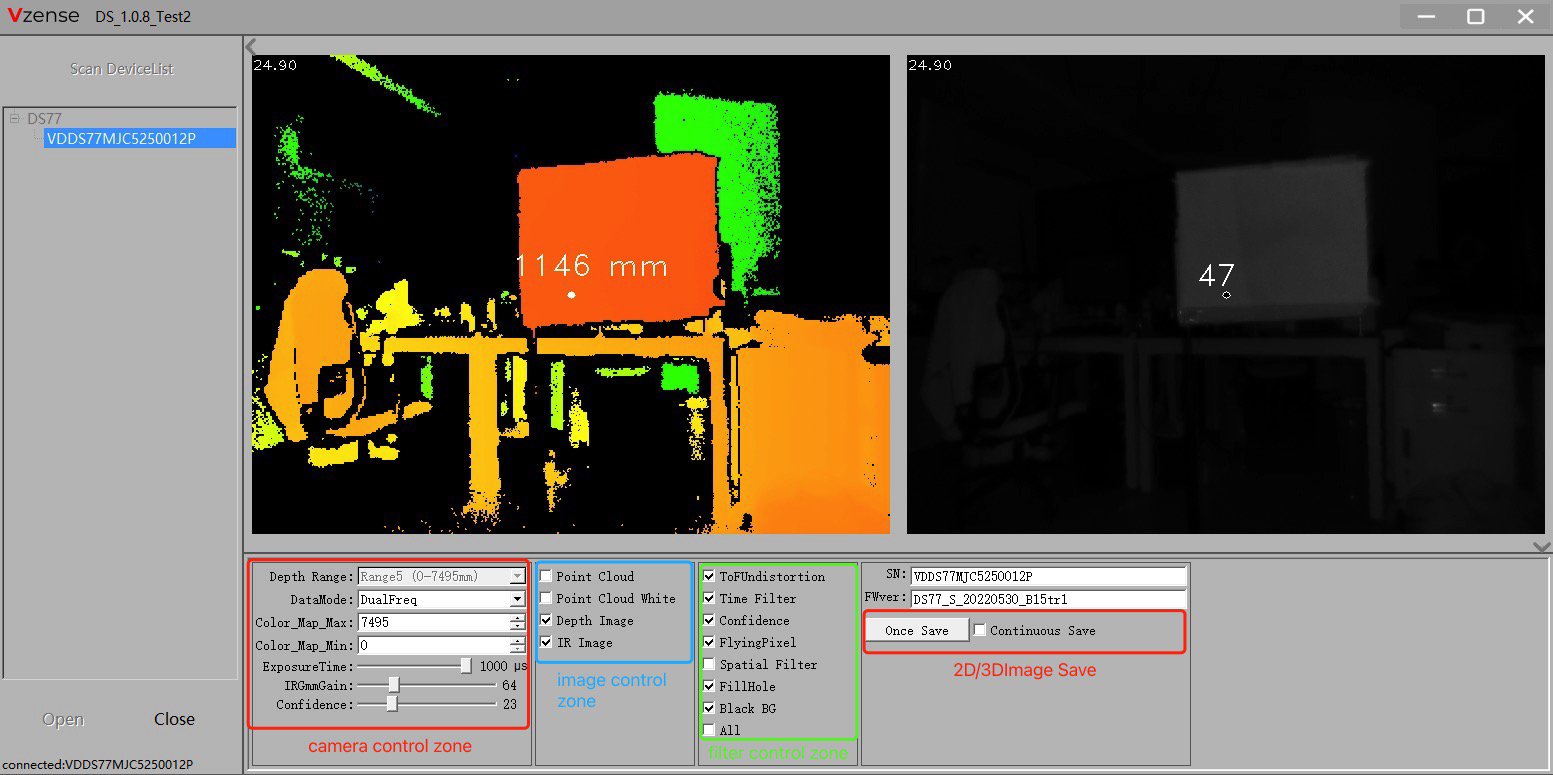
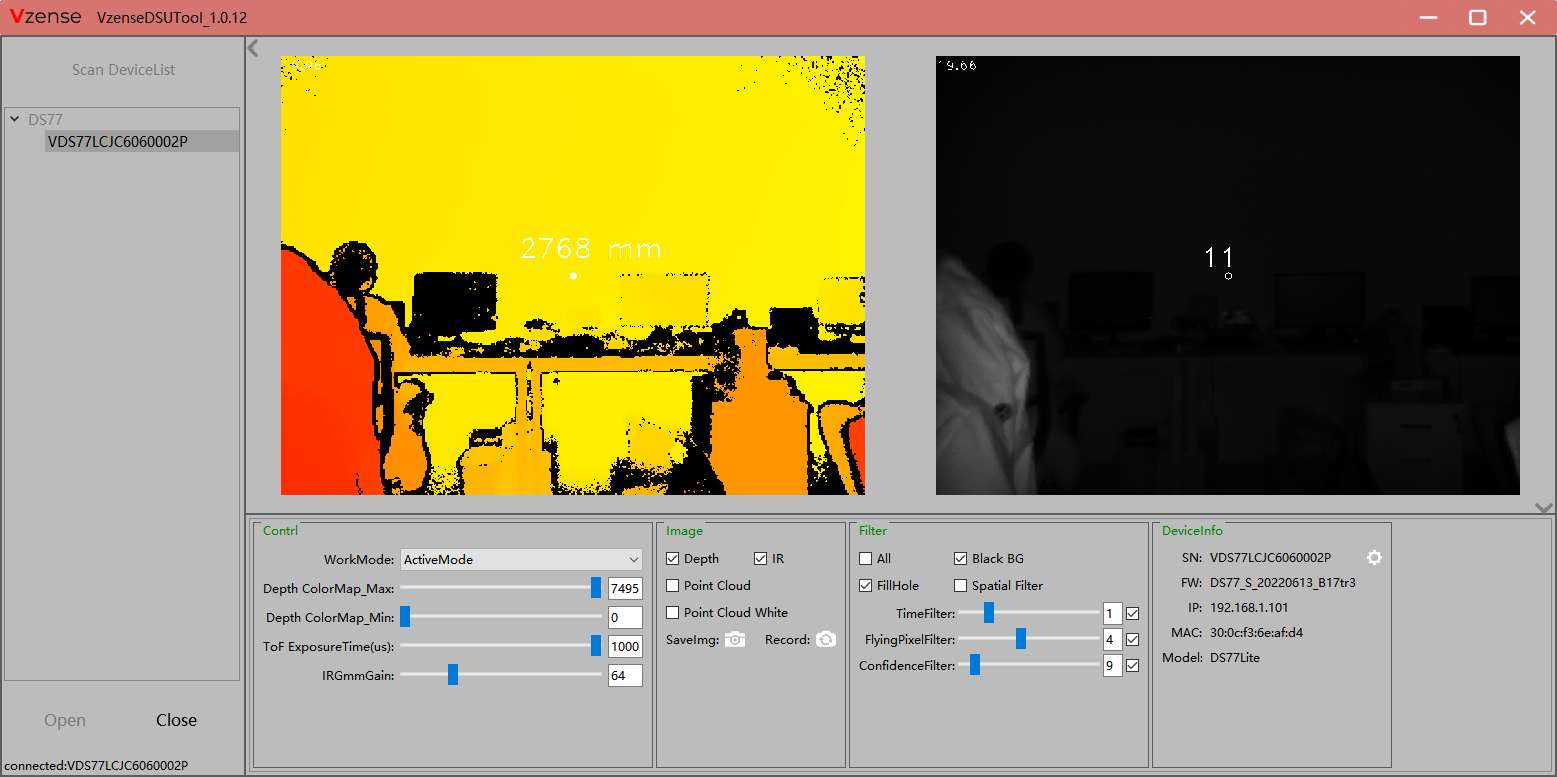
change version number to 1.1.0

diff --git a/README.md b/README.md
@@ -16,13 +16,6 @@ The Tools repo have three parts:
 
   Display the 2D or 3D image of DS77 
 
-- VzenseDSUpgradeTool
-
-  Used for upgrade DS77 camera firmware 
-
-- VzenseDSConfigTool
-
-  Configurate the DS77 camera default parameter
 
 ------
 
@@ -84,47 +77,22 @@ Follow the below steps to use DSUTool:
 
 **Camera control Zone**
 
-Depth Range: Display the detect range
-
-DataMode: the DualFreq is the default mode, use 120M/20M.
+WorkMode: switch the camera working mode: ActiveMode/HardwareTriggerMode/SoftwareTriggerMode
 
 Color_Map_Max/Min:  change the color map in depth image show
 
-ExposureTime: adjust the exposure time, the maxiume is 1000us
+ToF ExposureTime: adjust the exposure time, the maxiume is 1000us
 
 IRGmmGain: adjust the digital gamma gain of IR image, the value range is 0-255
-
-Confidence: adjust the effect of confidence filter 
 
 **Image control Zone**
 
 Enable/Disable the Image window
 
+SaveImg: save the current image of showing once
+
+Record: Continuous save the showing image when enable it
+
 **Filter control Zone**
 
 Enable/Disable the Image filters
-
-**2D/3D Image Save**
-
-Once Save: save the current image of showing once
-
-Continuous Save: Continuous save the showing image when enable it
-
- 
-
-## 4 DSUpgradeTool
-
-Follow the below steps to use DSUpgradeTool to upgrade the firmware of DS77:
-
-1. Set up the camera module as described above in Section 2.
-2. Wait for the front of the camera to light up.
-3. Navigate to the root of the **DSUpgradeTool** package and run **DSUpgradeTool.exe**;
-4. Set permissions for the SDK to passthrough the system firewall, when you first run the Tool;
-5. Click **Scan DeviceList** to find the camera;
-6. Open and Connect the camera
-7. chose the correct image file 
-8. Click Upgrade and wait it success
-
-![image-20220530145223726](Images/VzenseDSUpgradeTool.png)
-
-![image-20220530145241111](Images/VzenseDSUpgradeTool_done.png)
